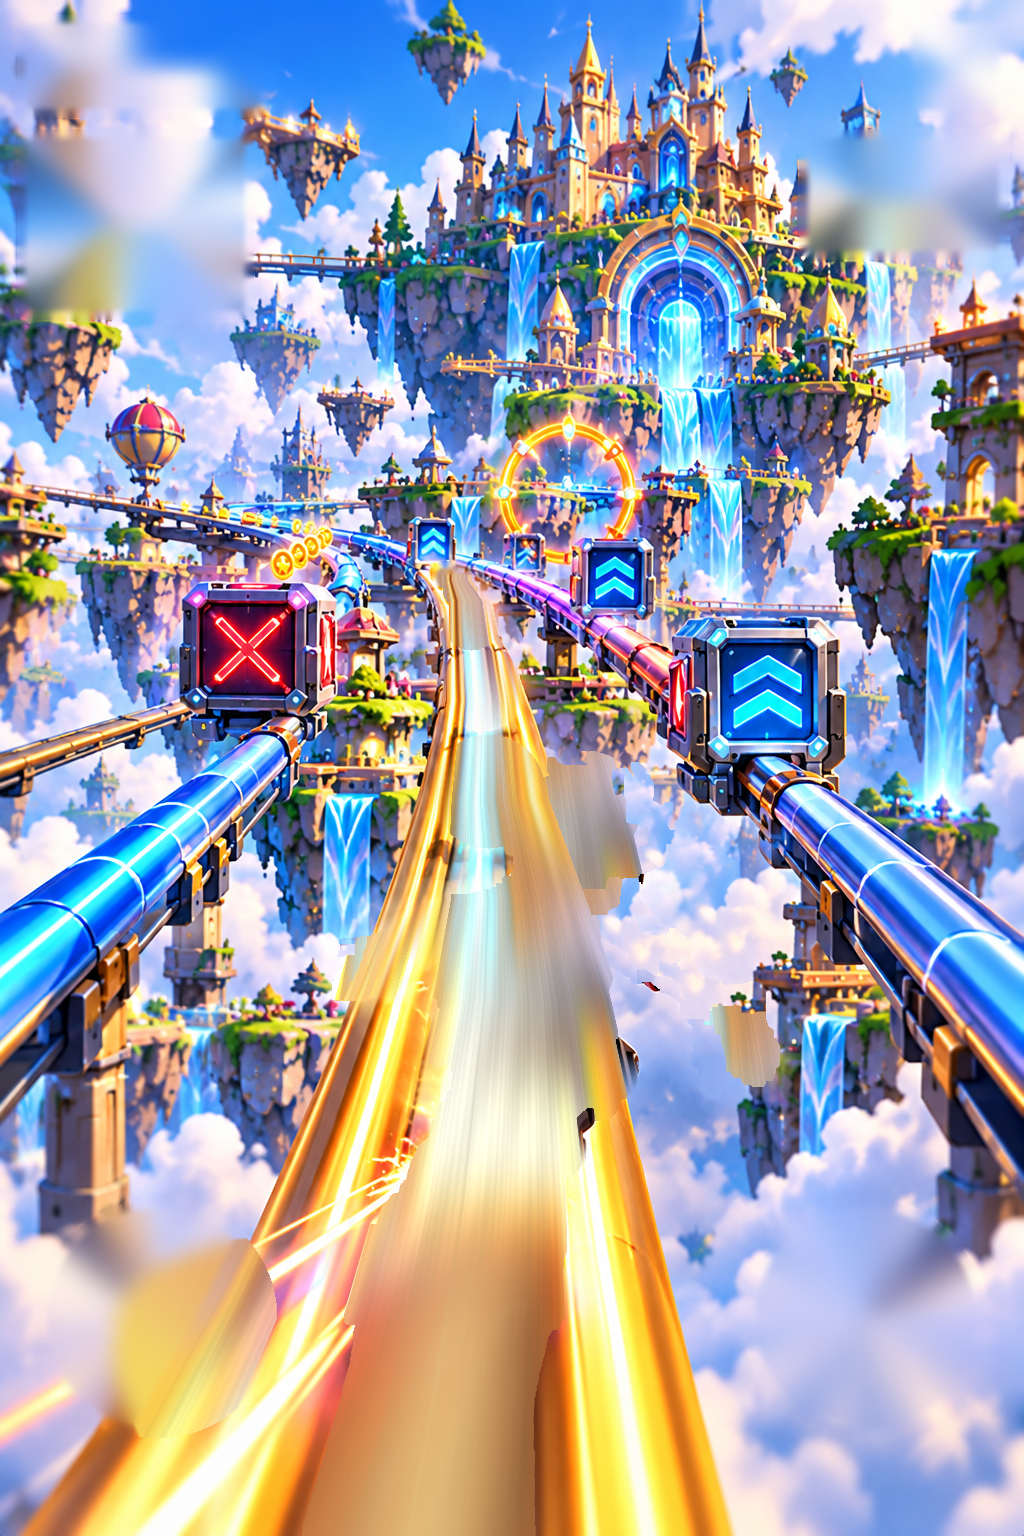
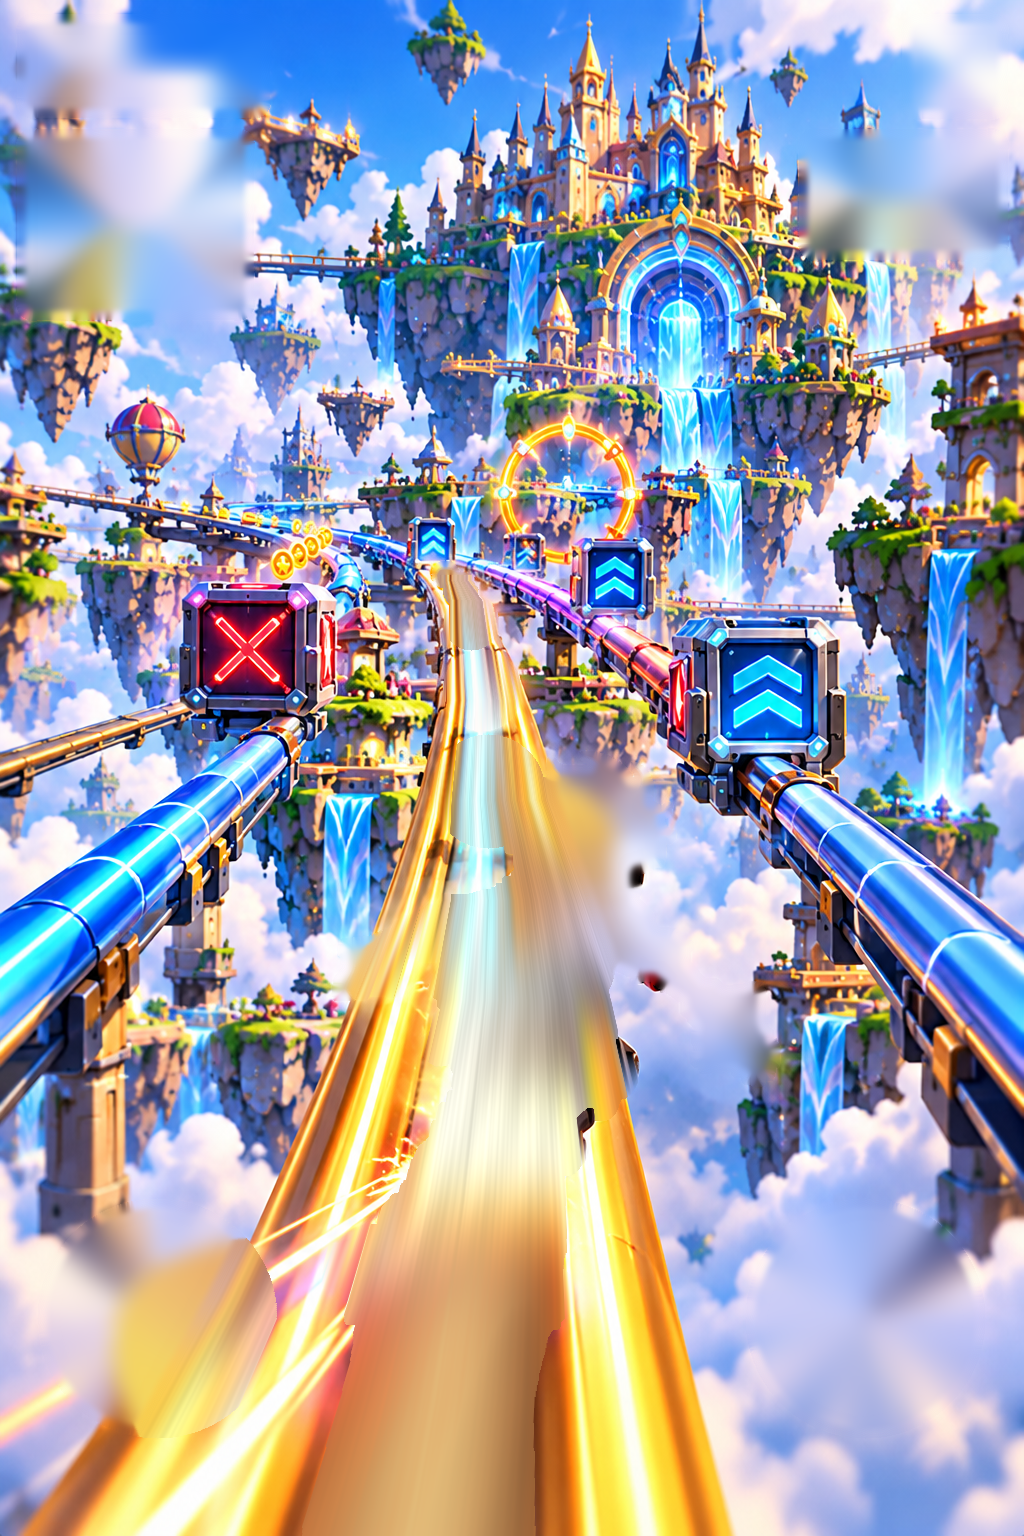
Give him knees, and stop the plate showing its seams when he moves
Animation. He is drawn as a stack of thin slices of his own painted pixels,
nudged against each other: his knees fold under each push with his boots
planted on the rail, and his shoulders lead a turn while his boots follow it.
Nothing is repainted and there are no seams - the rise and fall that used to
be a whole-body bob now comes from the legs, as it should.

It also uncovered a fault in the plate. The scenery behind him was filled by
patch-based synthesis, which pasted visible rectangles into the smooth cloud
gradients; nobody saw them while he only moved 65px, but at 132px he uncovers
them. That pass is gone and the whole hole now goes through the same smooth
low-frequency fill as everything else, which is what cloud wants. The rebuilt
opening frame improved slightly as a result, to 96.4%.

scripts/board-check.mjs renders the ride gear at each steering angle, which is
how the split boot and then the plate seams were found.

Claude-Session: https://claude.ai/code/session_01HHyzXud87QRRBu4G8w6gvV

diff --git a/src/gameplay/GameplayScreen.ts b/src/gameplay/GameplayScreen.ts
@@ -53,6 +53,9 @@ interface Streak {
 }
 
 const FEET = L.boy.feet as [number, number];
+/** Where his knees and his boots fall through the sprite, top to bottom. */
+const KNEE_V = ((L.boy.joints.kneeL[1] + L.boy.joints.kneeR[1]) / 2 - L.boy.y) / L.boy.h;
+const FEET_V = (FEET[1] - L.boy.y) / L.boy.h;
 /** The world is framed so the boy's feet sit this far down the screen. */
 const FOCUS = 0.8;
 /** How much of the artwork may be cropped away before it is fitted instead. */
@@ -254,11 +257,12 @@ export class GameplayScreen {
     let angle = clamp(this.laneVel * 0.06, -0.22, 0.22);
     dx += clamp(this.laneVel * 0.055, -0.22, 0.22) * 34;
     if (this.state !== 'ready') {
-      // Push and glide: he rises and falls on each stride and rocks with it.
+      // Push and glide. Most of the rise and fall now comes from his knees
+      // folding (see drawBoyBody); this is just the sway that goes with it.
       const push = Math.sin(this.stride);
-      dy -= Math.abs(push) * 13;
-      dx += push * 9;
-      angle += push * 0.028;
+      dy -= Math.abs(push) * 4;
+      dx += push * 8;
+      angle += push * 0.026;
       // Accelerating pulls him towards the viewer; braking eases him back.
       scale += this.surge * 0.05;
       dy += this.surge * 14;
@@ -767,8 +771,51 @@ export class GameplayScreen {
     c.rotate(angle);
     c.scale(scale, scale);
     c.translate(-FEET[0], -FEET[1]);
-    c.drawImage(this.img.boy, L.boy.x, L.boy.y);
+    this.drawBoyBody(c);
     c.restore();
+  }
+
+  /**
+   * The boy himself, drawn as a stack of thin slices of his own painted
+   * pixels. Nothing is redrawn: the slices are nudged against each other so
+   * that his knees take the push of each stride with his boots planted on the
+   * rail, and his upper body leads the turn while his feet follow it.
+   */
+  private drawBoyBody(c: CanvasRenderingContext2D): void {
+    const B = L.boy;
+    const N = 26;
+    const band = B.h / N;
+    // How hard he is pushing through the stride, and how hard he is turning.
+    const push = this.state === 'ready' ? 0 : (1 - Math.cos(this.stride * 2)) / 2;
+    const lead = clamp(this.laneVel * 0.5, -1, 1);
+    const twist = this.state === 'ready' ? 0 : Math.sin(this.stride);
+
+    // A slice's height shrinks where his legs fold - most at the knee.
+    const heights: number[] = [];
+    for (let i = 0; i < N; i++) {
+      const v = (i + 0.5) / N;
+      const knee = Math.exp(-(((v - KNEE_V) / 0.14) ** 2)); // bell around the knee
+      heights.push(band * (1 - push * 0.09 * knee));
+    }
+    // Stack them up from his boots, which stay on the rail.
+    const tops: number[] = new Array(N);
+    let y = B.y + B.h;
+    for (let i = N - 1; i >= 0; i--) {
+      y -= heights[i];
+      tops[i] = y;
+    }
+    for (let i = 0; i < N; i++) {
+      const v = (i + 0.5) / N;
+      // His shoulders lead the turn; his boots stay with the rail. His torso
+      // counter-rotates a little with each push, as a skater's does.
+      const above = Math.max(0, 1 - v / FEET_V);
+      const sway = lead * 13 * above * above + twist * 2.6 * above * (1 - above) * 4;
+      c.drawImage(
+        this.img.boy,
+        0, i * band, B.w, band + 1,
+        B.x + sway, tops[i], B.w, heights[i] + 1,
+      );
+    }
   }
 
   private drawBoostGlow(c: CanvasRenderingContext2D): void {

diff --git a/tools/extract_gameplay.py b/tools/extract_gameplay.py
@@ -311,24 +311,10 @@ plate = plate.astype(np.uint8)
 # 2) Everything else (sky, islands, clouds behind the HUD and the boy's
 #    arms): texture-aware inpainting from the surrounding artwork.
 rest = (hole > 0) & ~filled
-# Scenery right behind the boy (hair/arms over islands and clouds): patch-based
-# synthesis from the surrounding artwork keeps real texture (narrow areas).
-near_boy = rest & (boy_hole > 0)
-if near_boy.any():
-    ys_n, xs_n = np.where(near_boy)
-    bx0, bx1 = max(0, xs_n.min() - 120), min(W, xs_n.max() + 120)
-    by0, by1 = max(0, ys_n.min() - 120), min(H, ys_n.max() + 120)
-    sub = plate[by0:by1, bx0:bx1].copy()
-    known_sub = (~((hole[by0:by1, bx0:bx1] > 0) & ~filled[by0:by1, bx0:bx1])).astype(np.uint8) * 255
-    lab_s = cv2.cvtColor(sub, cv2.COLOR_BGR2Lab)
-    out_s = np.zeros_like(lab_s)
-    cv2.xphoto.inpaint(lab_s, known_sub, out_s, cv2.xphoto.INPAINT_SHIFTMAP)
-    syn = cv2.cvtColor(out_s, cv2.COLOR_Lab2BGR)
-    region = near_boy[by0:by1, bx0:bx1]
-    sub[region] = syn[region]
-    plate[by0:by1, bx0:bx1] = sub
-    filled |= near_boy
-    rest = (hole > 0) & ~filled
+# The scenery behind him (arms and hair over clouds and islands) goes through
+# the same smooth fill as everything else. Patch-based synthesis was tried here
+# and pasted visible rectangles into the cloud gradients, which showed the
+# moment he steered far enough to uncover them.
 rest8 = rest.astype(np.uint8) * 255
 # Low-frequency fill at 1/8 scale (no streak artefacts), refined at full scale.
 small_p = cv2.resize(plate, (W // 8, H // 8), interpolation=cv2.INTER_AREA)
